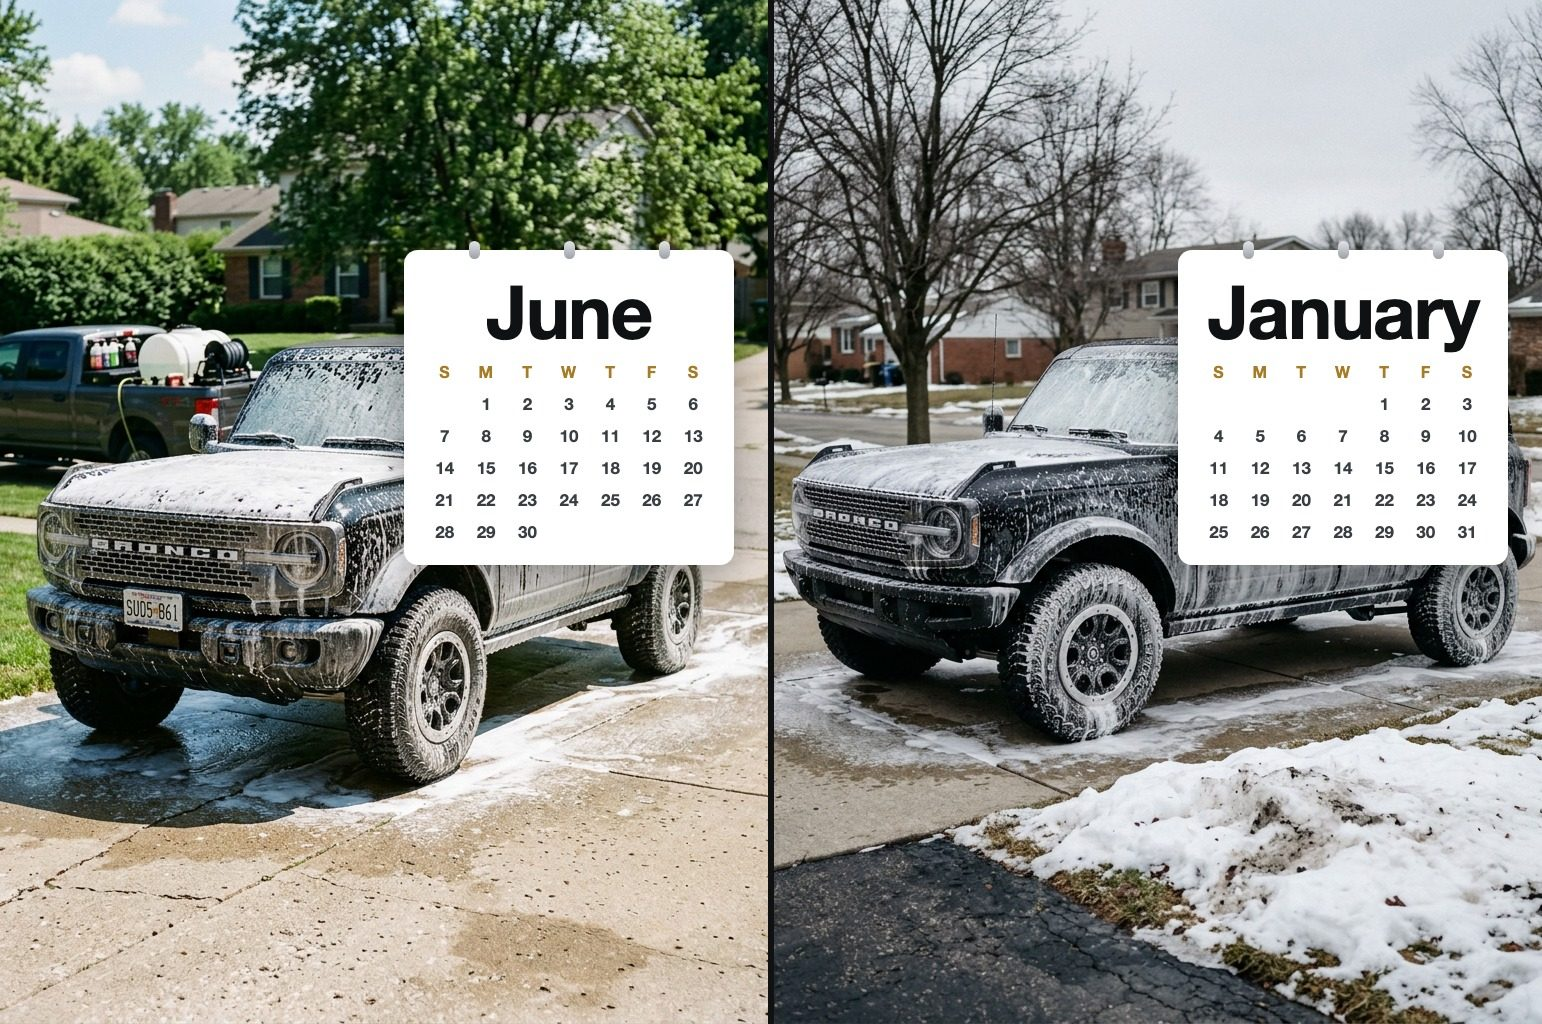
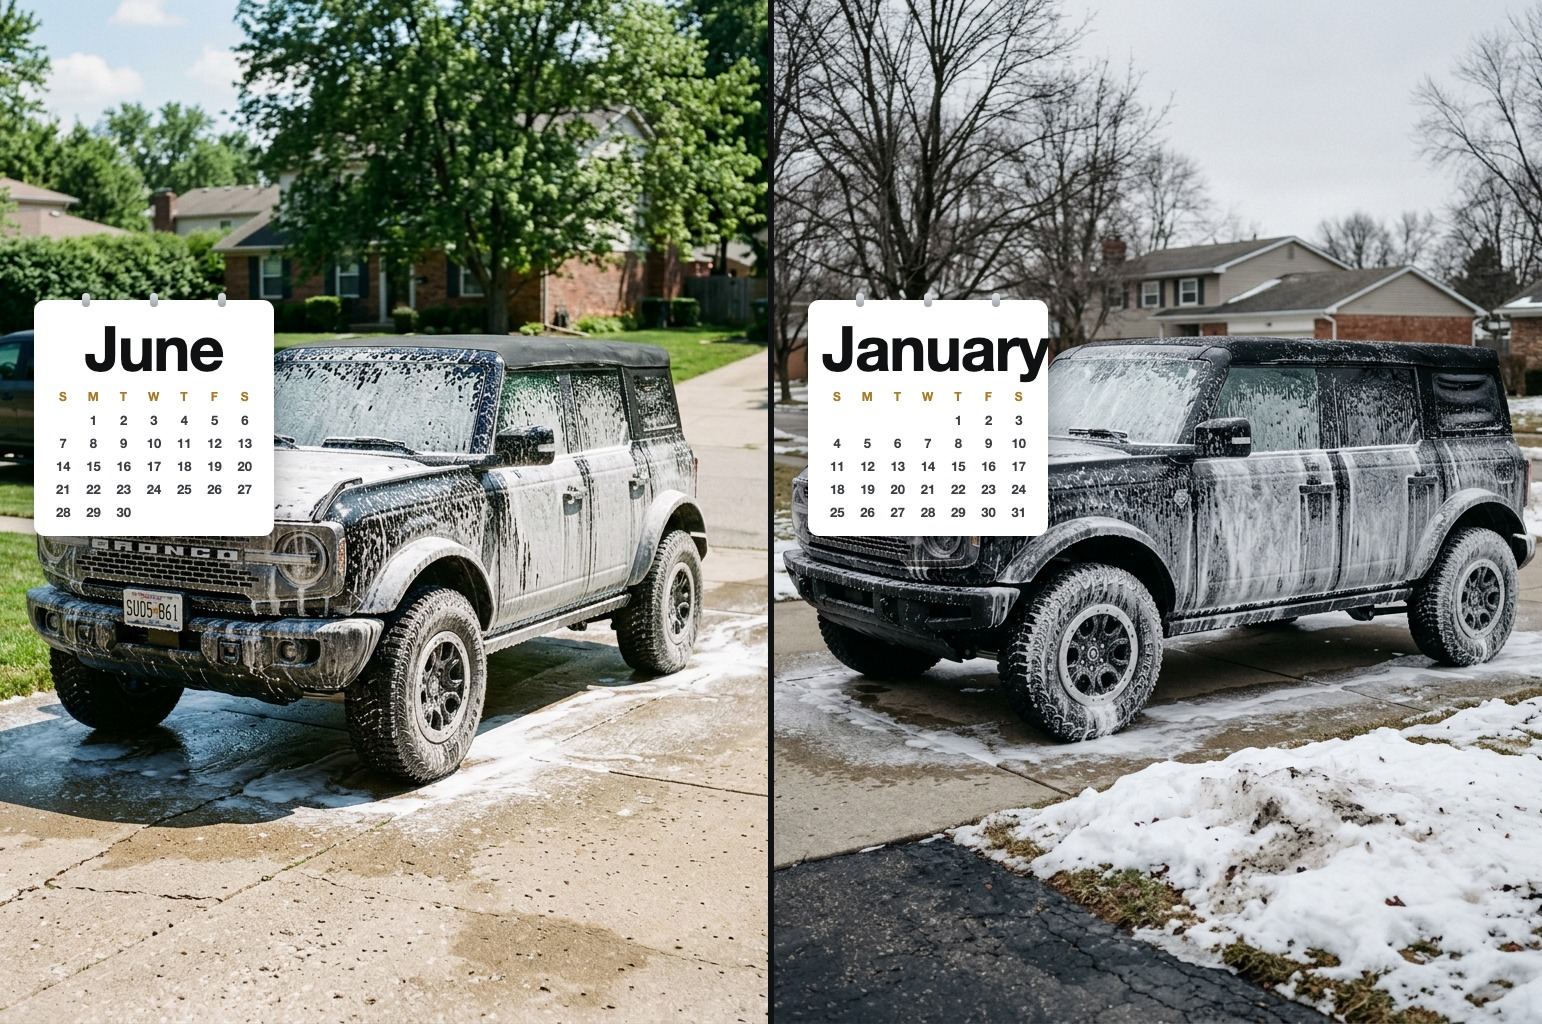
Maintenance hero: darker top, shorter, calendars smaller and top-left
Three things, all desktop:

- The nav bubble was floating over sunlit trees with almost nothing behind it.
  The top of the scrim now runs .86 to clear at 21%, still leaving the 21-60%
  band untinted so the calendars are not greyed.

- The hero was 956px tall at 1440 wide, taller than a laptop viewport, so the
  buttons sat hard on the bottom edge with the picture cut under them. Height is
  now min(66.41vw, 100svh - 56px): full ratio until that would overflow, then
  capped, with a sliver of the next section showing.

  aspect-ratio plus max-height was tried first and is wrong: it holds the ratio
  by shrinking the WIDTH, leaving a 169px dead strip down the right of the page.

- Calendars rebuilt at 240px instead of 330px and pinned top-left of each panel.
  They sit at 29% down rather than the very top because the centred headline
  runs across the join and the January card landed on it. The month type did not
  shrink with the card, so it still reads on a phone.

The background is anchored object-position:center top. Centred, the crop moved
the calendars up as the window got shorter and under ~800px tall the January one
slid into the headline again. Anchored, their distance from the top never
changes. Verified at 1440x900, 1440x760, 1280x1000 and 390x844.

Source panels recovered and saved to unused/season-sources/ so this is
reproducible without regenerating them.

Changed region(s): [[0.249, 0.2188, 0.6848, 0.5938], [0.7471, 0.2188, 0.9961, 0.5938], [0.0, 0.2812, 0.1868, 0.5312]]

diff --git a/maintenance.html b/maintenance.html
@@ -161,15 +161,23 @@
     .mt-hero { position:relative; min-height:calc(100vh + 128px); margin-top:-128px; overflow:hidden; background:#050505; }
     /* The picture IS the hero: it fills the section edge to edge and the headline
        and buttons sit over it, so there is no black band anywhere around it. */
+    /* Anchored to the TOP, not centred. A centred crop moves the calendars up
+       as the window gets shorter, and on anything under ~800px tall the January
+       one slid into the headline. Anchoring means their distance from the top of
+       the page never changes, whatever the window height, and the crop only ever
+       comes off the bottom, which is spare driveway. */
     .mt-hero-bg { position:absolute; inset:0; width:100%; height:100%;
-                  object-fit:cover; object-position:center; z-index:0; }
-    /* Just enough darkening top and bottom to keep white text legible over a
-       bright summer sky and a pale concrete driveway. It goes fully clear from
-       22% to 60%, which is the band the calendars hang in, so nothing tints
-       them grey. */
+                  object-fit:cover; object-position:center top; z-index:0; }
+    /* Darkening top and bottom so white text and the floating nav bubble read
+       against a bright summer sky and a pale concrete driveway. The top is the
+       heavier end: the nav sits in the first 8% and was floating over sunlit
+       trees with almost nothing behind it.
+       It still goes fully clear from 21% to 60%, which is the band the
+       calendars hang in, so nothing tints them grey. */
     .mt-hero::after { content:''; position:absolute; inset:0; z-index:1; pointer-events:none;
-      background:linear-gradient(180deg, rgba(5,5,5,.60) 0%, rgba(5,5,5,.10) 17%,
-                                 rgba(5,5,5,0) 22%, rgba(5,5,5,0) 60%,
+      background:linear-gradient(180deg, rgba(5,5,5,.86) 0%, rgba(5,5,5,.66) 7%,
+                                 rgba(5,5,5,.30) 14%, rgba(5,5,5,0) 21%,
+                                 rgba(5,5,5,0) 60%,
                                  rgba(5,5,5,.16) 76%, rgba(5,5,5,.66) 100%); }
     .mt-hero-cta .btn-ghost-d { background:rgba(23,24,26,.82); border:1px solid rgba(255,255,255,.18); color:#fff; backdrop-filter:blur(8px); -webkit-backdrop-filter:blur(8px); }
     .mt-hero-cta .btn-ghost-d:hover { background:rgba(23,24,26,.95); }
@@ -189,8 +197,22 @@
        buttons under that. The width is capped because the composite is 1.368:1
        and a full-bleed 1440px version would stand over 1000px tall on its own. */
     @media (min-width: 721px) {
-      .mt-hero { min-height:0; aspect-ratio:1542 / 1024; }
-      .mt-hero-inner { min-height:0; height:100%; padding:9rem 1.5rem 3rem;
+      /* The composite's own 1.5:1 makes the hero 956px tall at 1440 wide, which
+         is taller than a laptop viewport, so the buttons landed hard against the
+         bottom edge with the picture cut off under them. Capping the height
+         keeps the whole hero, buttons included, on screen without scrolling,
+         and leaves a sliver of the next section showing so it reads as
+         scrollable. object-fit:cover trims the sky and spare driveway rather
+         than letterboxing. */
+      /* Height, not aspect-ratio. `aspect-ratio` with a max-height keeps the
+         ratio by shrinking the WIDTH instead, which left a 169px dead strip
+         down the right of the page. An explicit height holds the full width and
+         lets object-fit:cover do the trimming.
+         66.41vw is the composite's own 1024/1542 ratio, so nothing is cropped
+         until that would be taller than the screen. */
+      .mt-hero { min-height:0; aspect-ratio:auto;
+                 height:min(66.41vw, calc(100svh - 56px)); }
+      .mt-hero-inner { min-height:0; height:100%; padding:9rem 1.5rem 2.4rem;
                        justify-content:space-between; }
       .mt-hero-cta { margin-top:0; }
     }
